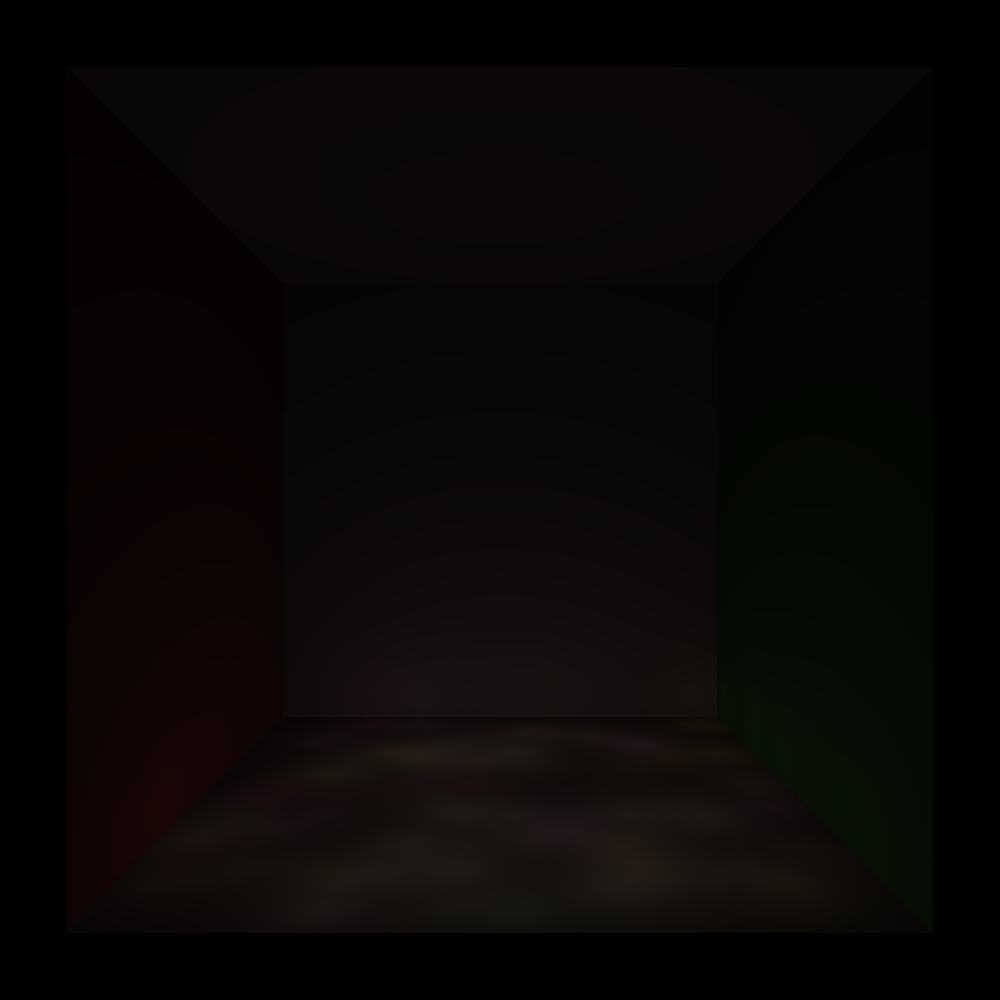
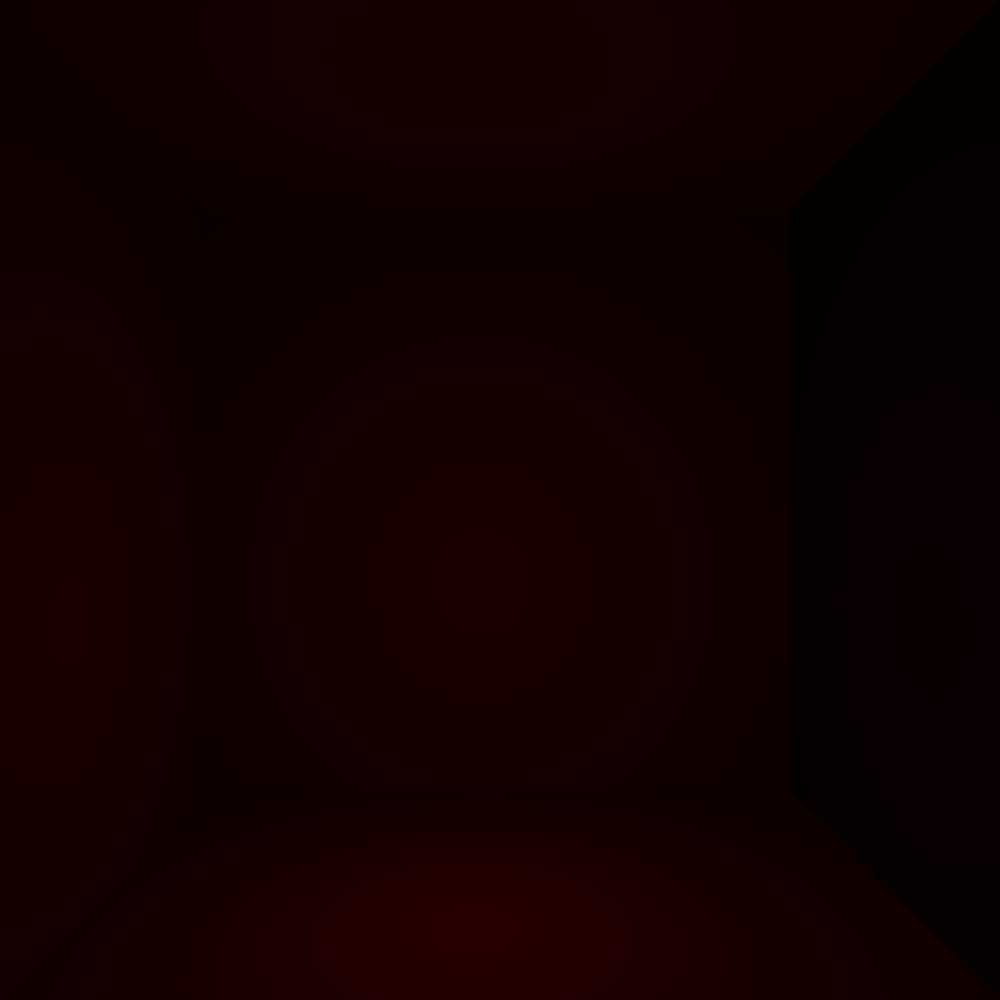
Light files added

diff --git a/src/renderer.h b/src/renderer.h
@@ -16,11 +16,11 @@ __device__ __host__ float intersect_cornell_box(
     struct Face { vec3 p0, n; float min1, max1, min2, max2; };
     Face faces[] = {
         // p0           normal        extent1-min extent1-max extent2-min extent2-max
-        { {  0,  10,  0 }, {  0,-1, 0 }, -10, 10, -10, 10 },  // roof (x,z)
-        { {  0, -10,  0 }, {  0, 1, 0 }, -10, 10, -10, 10 },  // floor (x,z)
-        { { -10,  0,  0 }, {  1, 0, 0 }, -10, 10, -10, 10 },  // left (y,z)
-        { {  10,  0,  0 }, { -1, 0, 0 }, -10, 10, -10, 10 },  // right (y,z)
-        { {  0,   0, -10 }, {  0, 0, 1 }, -10, 10, -10, 10 }   // back  (x,y)
+        { {  0,  50,  0 }, {  0,-1, 0 }, -50, 50, -50, 50 },  // roof (x,z)
+        { {  0, -50,  0 }, {  0, 1, 0 }, -50, 50, -50, 50 },  // floor (x,z)
+        { { -50,  0,  0 }, {  1, 0, 0 }, -50, 50, -50, 50 },  // left (y,z)
+        { {  50,  0,  0 }, { -1, 0, 0 }, -50, 50, -50, 50 },  // right (y,z)
+        { {  0,   0, -50 }, {  0, 0, 1 }, -50, 50, -50, 50 }   // back  (x,y)
     };
 
     for (int i = 0; i < 5; ++i) {

diff --git a/src/vec.h b/src/vec.h
@@ -3,6 +3,15 @@
 
 struct vec3{
     float x, y, z;
+    
+    // Default constructor
+    __device__ __host__ vec3() : x(0), y(0), z(0) {}
+    
+    // Constructor for all components
+    __device__ __host__ vec3(float x_, float y_, float z_) : x(x_), y(y_), z(z_) {}
+    
+    // Constructor for same value in all components
+    __device__ __host__ vec3(float v) : x(v), y(v), z(v) {}
 };
 
 __device__ __host__ vec3 operator+(const vec3& a, const vec3& b){

diff --git a/src/light.h b/src/light.h
@@ -4,7 +4,6 @@
 #include "vec.h"    
 
 
-
 struct color{
     float r, g, b;
 };

diff --git a/README.md b/README.md
@@ -7,4 +7,22 @@ cluster instruction
 sbatch gpu_job.slurm
 ```
 
-<img src="output/output.png" height='500px'></img>
+<img src="output/untitled.filecache1_v1.0015_lights.png" height='500px'></img>
+
+
+```bash
+cd nanovdb/nanovdb
+rm -rf build
+mkdir build
+cd build
+
+# Create the target directory first
+mkdir -p /users/aagar133/.conda/envs/graphics/include/nanovdb
+
+# Try with DESTDIR environment variable
+DESTDIR=/users/aagar133/.conda/envs/graphics/include cmake .. \
+    -DCMAKE_INSTALL_PREFIX="/nanovdb"
+
+make -j$(nproc)
+DESTDIR=/users/aagar133/.conda/envs/graphics/include make install
+```
